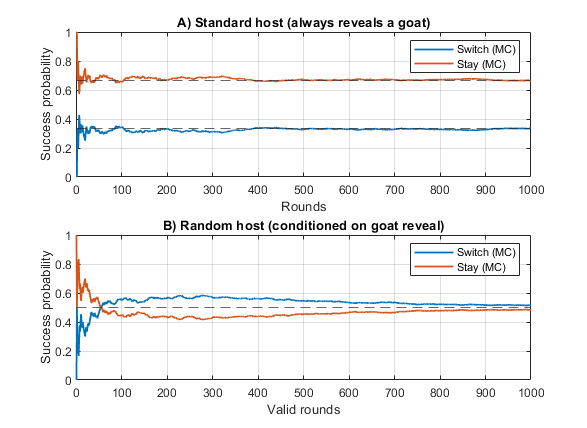
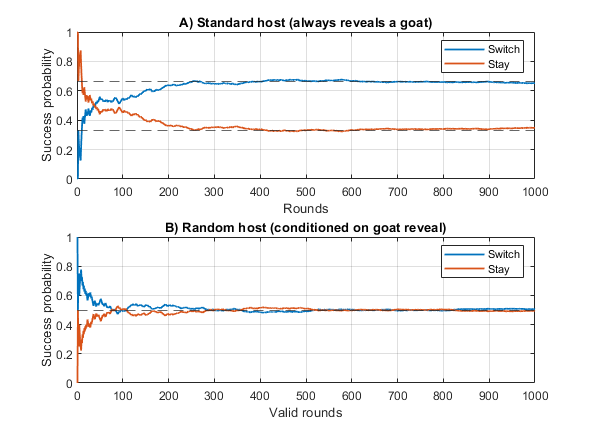
Add files via upload

Changed region(s): [[0.0613, 0.0304, 0.9506, 0.9416], [0.5213, 0.9416, 0.5826, 0.972], [0.46, 0.9416, 0.4906, 0.972]]

diff --git a/monty_hall_demo.m b/monty_hall_demo.m
@@ -1,0 +1,98 @@
+%% MONTY_HALL_DEMO  Monte Carlo for two Monty Hall variants
+% Part A: Standard formulation of the problem (the host always reveals 
+%         a goat, then offers a switch).
+%         Switching wins → 2/3; Staying wins → 1/3.
+% Part B: Random host (chooses a door uniformly from the tow doors you didn't pick).
+%         If he opens the car, the round is invalid and we discard it.
+%         Switch = Stay = 1/2.
+
+% Parameters
+N = 1000;
+
+%% Part A: Standard host (goat reveal guaranteed)
+win_switch = zeros(1,N);
+win_stay   = zeros(1,N);
+
+for j = 1:N
+    
+    doors     = randperm(3);    % value 1 = car, 2/3 = goats
+    your_pick = randi(3);
+
+    % possible door to open
+    open_door = randi(3);
+
+    % if it is your pick or contains the car, open another one instead
+    while open_door == your_pick || doors(open_door) == 1
+        open_door = randi(3);
+    end
+
+    closed_door = setdiff(1:3, [your_pick open_door]);
+
+    if doors(your_pick) == 1 % you stick to your initial pick
+        win_stay(j) = 1;
+    end
+    your_pick = closed_door; % you switch doors
+    if doors(your_pick) == 1
+        win_switch(j) = 1;
+    end
+end
+
+win_ratio_switch = cumsum(win_switch)./(1:N);
+win_ratio_stay   = cumsum(win_stay)./(1:N);
+
+%% Part B: Random host 
+win_switch_R = zeros(1,N);
+win_stay_R   = zeros(1,N);
+
+v = 1;  % number of valid rounds (host happened to open a goat)
+
+while v < N
+
+    doors = randperm(3);
+    your_pick = randi(3);
+
+   % possible door to open
+    open_door = randi(3);
+
+    % if it is your pick, open another one instead
+    % it can possibly be a goat
+    while open_door == your_pick
+        open_door = randi(3);
+    end
+
+    closed_door = setdiff(1:3, [your_pick open_door]);
+
+    % valid trials only
+    if doors(open_door) ~= 1 
+        if doors(your_pick) == 1
+            win_stay_R(v) = 1;
+        elseif doors(closed_door) == 1
+            win_switch_R(v) = 1;
+        end
+        v = v+1;
+    end
+
+end
+
+win_ratio_switch_R = cumsum(win_switch_R)./(1:N);
+win_ratio_stay_R   = cumsum(win_stay_R)./(1:N);
+
+%% Plots
+% Panel A
+figure
+subplot(2,1,1); hold on; grid on; box on;
+plot(1:N, win_ratio_switch, '-', 'LineWidth', 1.3);
+plot(1:N, win_ratio_stay,   '-', 'LineWidth', 1.3);
+yline(2/3, '--'); yline(1/3, '--');
+legend('Switch','Stay', 'Location','northeast');
+title('A) Standard host (always reveals a goat)');
+xlabel('Rounds'); ylabel('Success probability');
+
+% Panel B
+subplot(2,1,2); hold on; grid on; box on;
+plot(1:N, win_ratio_switch_R, '-', 'LineWidth', 1.3);
+plot(1:N, win_ratio_stay_R,   '-', 'LineWidth', 1.3);
+yline(1/2, '--');
+legend('Switch','Stay', 'Location','northeast');
+title('B) Random host (conditioned on goat reveal)');
+xlabel('Valid rounds'); ylabel('Success probability');
